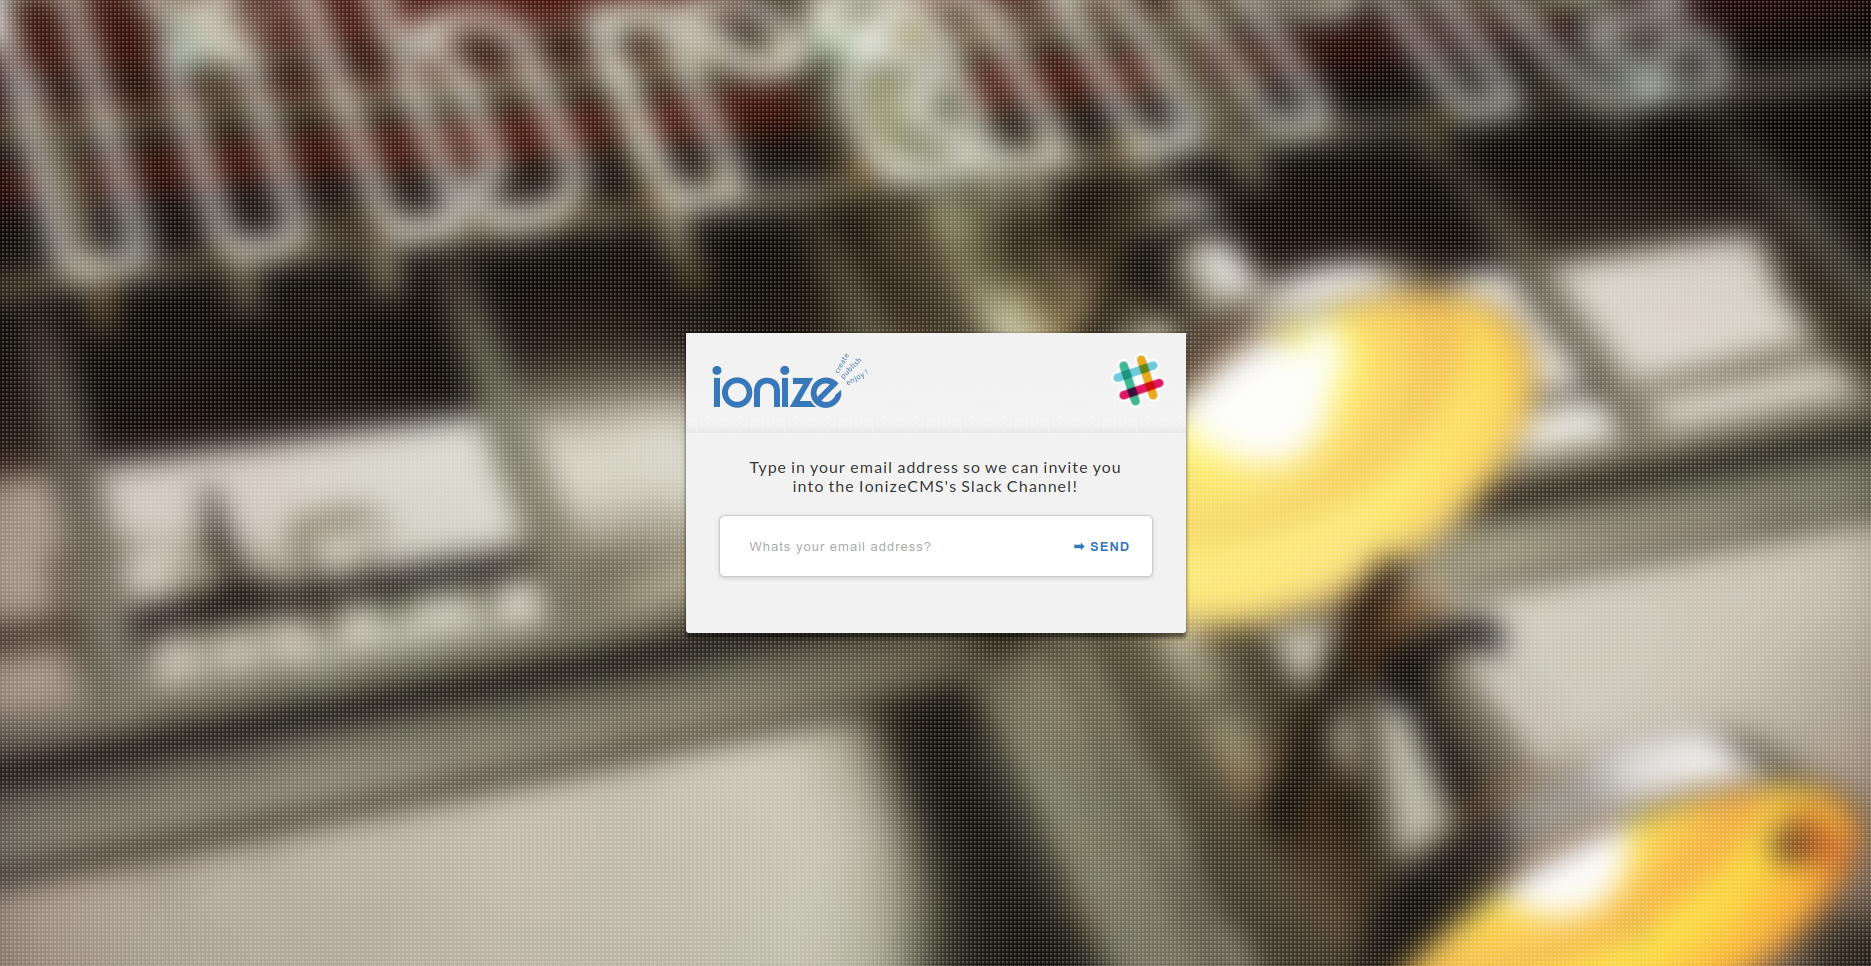
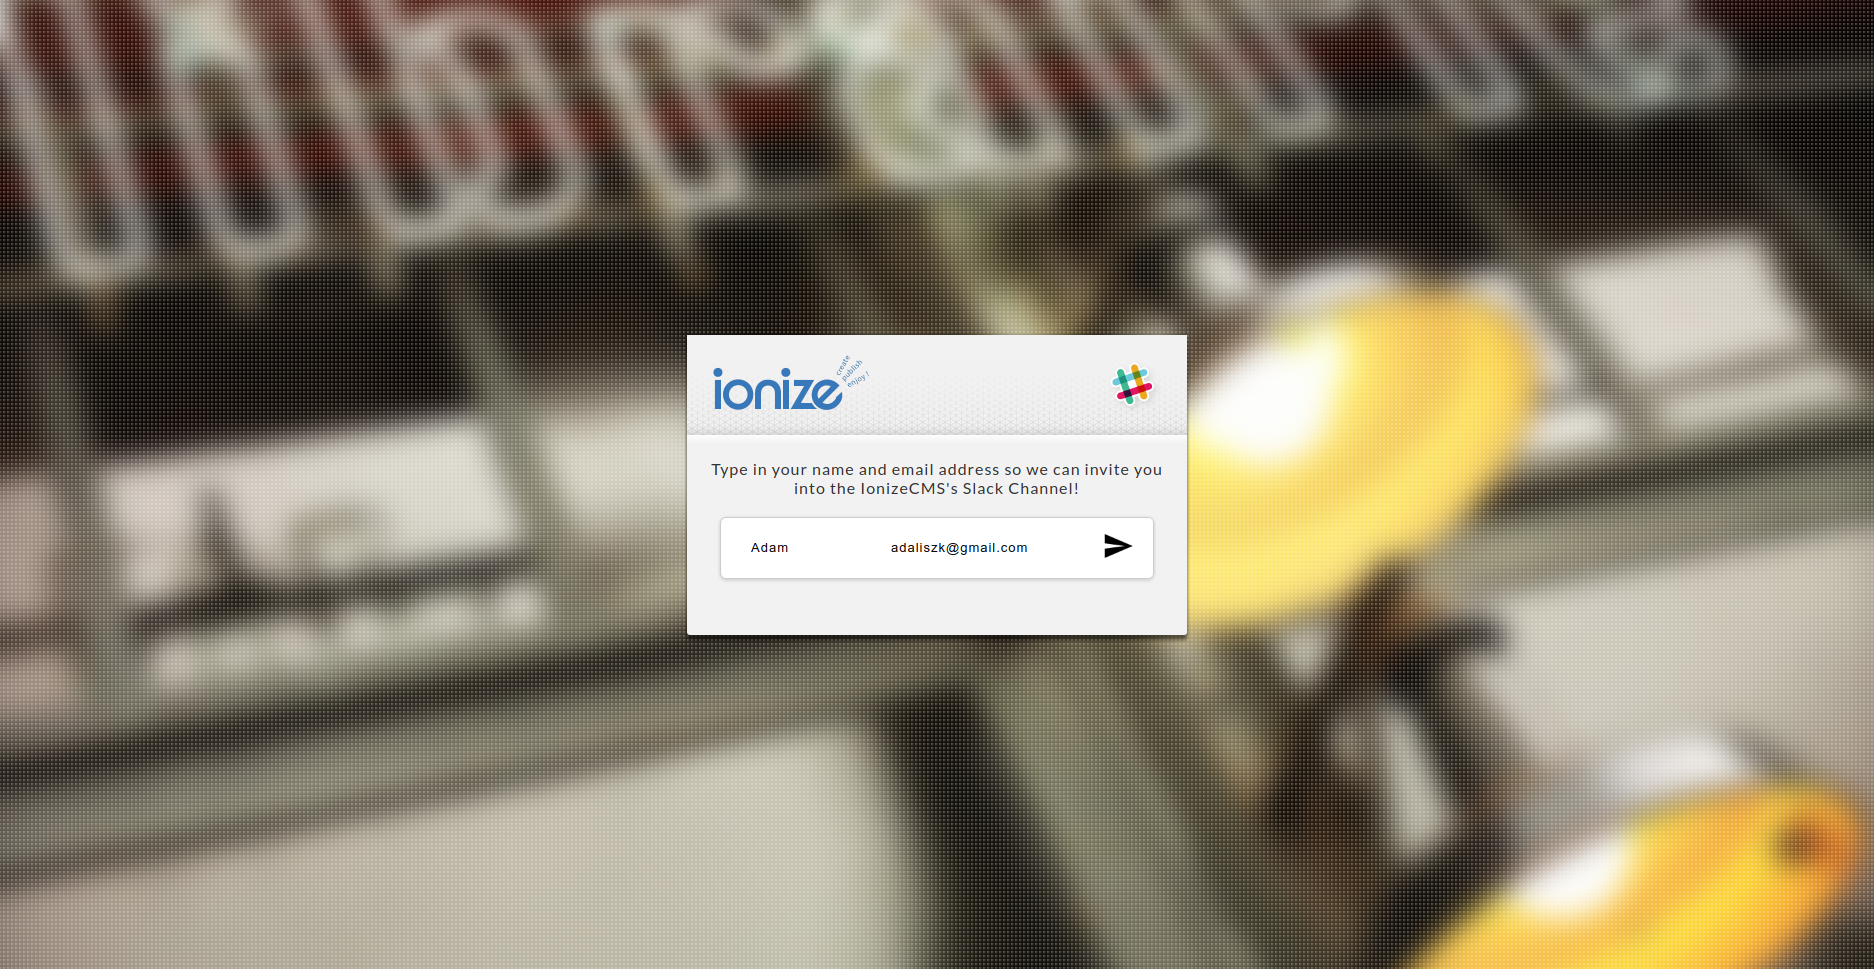
Adding Name field, Processing, Success, Error message to the Form.

diff --git a/website/index.html b/website/index.html
@@ -1,8 +1,27 @@
+<!--
+ ~ The MIT License (MIT)
+ ~
+ ~ Copyright (C) 2017 Ádám Liszkai <adaliszk@gmail.com>
+ ~
+ ~ Permission is hereby granted, free of charge, to any person obtaining a copy of this software and associated
+ ~ documentation files (the "Software"), to deal in the Software without restriction, including without limitation
+ ~ the rights to use, copy, modify, merge, publish, distribute, sublicense, and/or sell copies of the Software,
+ ~ and to permit persons to whom the Software is furnished to do so, subject to the following conditions:
+ ~
+ ~ The above copyright notice and this permission notice shall be included in all copies
+ ~ or substantial portions of the Software.
+*
+ ~ THE SOFTWARE IS PROVIDED "AS IS", WITHOUT WARRANTY OF ANY KIND, EXPRESS OR IMPLIED, INCLUDING BUT NOT LIMITED
+ ~ TO THE WARRANTIES OF MERCHANTABILITY, FITNESS FOR A PARTICULAR PURPOSE AND NONINFRINGEMENT. IN NO EVENT SHALL
+ ~ THE AUTHORS OR COPYRIGHT HOLDERS BE LIABLE FOR ANY CLAIM, DAMAGES OR OTHER LIABILITY, WHETHER IN AN ACTION OF
+ ~ CONTRACT, TORT OR OTHERWISE, ARISING FROM, OUT OF OR IN CONNECTION WITH THE SOFTWARE OR THE USE OR OTHER
+ ~ DEALINGS IN THE SOFTWARE.
+ -->
 <!doctype html>
 <html amp lang="en">
 <head>
 	<meta charset="UTF-8">
-	<title> IonizeCMS Slack Channel </title>
+	<title> IonizeCMS Slack Channel Invite </title>
 
 	<link rel="shortcut icon" type="image/png" href="assets/favicon.png"/>
 
@@ -36,14 +55,26 @@
 
 	<main id="invite-dialog">
 		<amp-img id="ionize-logo" src="assets/logo_blue.png" alt="Ionize CMS" height="55" width="182"></amp-img>
-		<amp-img id="slack-logo" src="assets/slack.png" alt="Slack" height="55" width="55"></amp-img>
+		<amp-img id="slack-logo" src="assets/logo_slack@64.png" alt="Slack" height="64" width="64"></amp-img>
 
 		<form id="invite" method="post" action-xhr="api/send_invite" target="_blank">
-			<p>Type in your email address so we can invite you<br/>into the IonizeCMS's Slack Channel!</p>
-			<div>
-				<input type="email" required placeholder="Whats your email address?" />
-				<button>➡ Send</button>
+			<p>Type in your name and email address so we can invite you into the IonizeCMS's Slack Channel!</p>
+			<div id="form">
+				<input type="text" required placeholder="Name" />
+				<input type="email" required placeholder="Email Address" />
+				<button>
+                    <amp-img id="ic_send" src="assets/ic_send.png" alt="Send" height="32" width="32"></amp-img>
+                </button>
 			</div>
+            <div id="form_processing">
+                Stay calm, Capybara need some time to process your Request!
+            </div>
+            <div id="form_success_message" submit-success>
+                <p>Check your inbox for your Invitation!</p>
+            </div>
+            <div id="form_error_message" submit-error>
+                <p>Something went wrong, plase contact me on <a href="mailto:adaliszk@gmail.com">adaliszk@gmail.com</a></p>
+            </div>
 		</form>
 	</main>
 

diff --git a/website/assets/template.css b/website/assets/template.css
@@ -1,19 +1,16 @@
 body, html {
     min-height: 100%;
 }
-
 body, td, th {
     font-family: 'Lato', 'Helvetica Neue', Arial, sans-serif;
 }
-
 body {
     background: #f2f2f2 url('background-02.png') no-repeat center center;
     background-size: cover;
 }
-
 body:before {
     content: ""; position: fixed; top: 0; right: 0; bottom: 0; left: 0;
-    background: url('overlay-white@2x.png') repeat center center;
+    background: url('overlay_white@2x.png') repeat center center;
     pointer-events: none;
 }
 
@@ -26,8 +23,7 @@ body:before {
     box-shadow: 0 0 5px rgba(0,0,0,0.22), 0 5px 5px rgba(0,0,0,0.5);
     border-radius: 0 0 3px 3px;
 }
-
-@media screen and (max-width: 500px) {
+@media screen and (max-width: 540px) {
     #invite-dialog {
         width: 90%; height: auto;
     }
@@ -40,6 +36,11 @@ body:before {
 #slack-logo {
     height: 55px; float: right; margin: 20px;
 }
+@media screen and (max-width: 320px) {
+    #slack-logo {
+        display: none;
+    }
+}
 
 #invite {
     padding: 10px;
@@ -47,6 +48,7 @@ body:before {
 
 #invite p {
     text-align: center; letter-spacing: 1px;
+    padding: 0 10px;
 }
 
 #invite div {
@@ -60,24 +62,59 @@ body:before {
     border: 1px solid #ccc; background: #fff;
     box-shadow: 0 0 5px rgba(0,0,0,0.07), 0 2px 5px rgba(0,0,0,0.1);
 }
-
+@media screen and (max-width: 540px) {
+    #invite div {
+        flex-direction: column; height: auto;
+    }
+}
 #invite div input, #invite div button {
     height: 60px; border: none; background: none; display: inline-block;
     letter-spacing: 1px;
 }
-
 #invite div input {
     padding: 0 30px; width: 100%;
 }
-
+@media screen and (min-width: 540px) {
+    #invite div input[type="text"] {
+        width: 80px;
+    }
+}
+@media screen and (max-width: 540px) {
+    #invite div input {
+        border-bottom: 1px solid #ccc;
+        width: 90%;
+    }
+}
 #invite div button {
-    width: 150px; text-transform: uppercase; background-color: #fff; color: #3778bb;
+    width: 170px; text-transform: uppercase; background-color: #fff; color: #3778bb;
     font-weight: 900; text-shadow: 0 0 10px #fff;
 }
-
-/*
-#invite-dialog #invite div ~ input:focus {
-    background-color: #3778bb; color: #eee;
-    text-shadow: 0 0 10px #040e19;
+@media screen and (max-width: 540px) {
+    #invite div button {
+        width: 100%; text-align: right;
+        padding-right: 20px;
+    }
 }
-*/
+
+#invite #form_processing, #invite.amp-form-submitting #form,
+#invite.amp-form-submit-success #form, #invite.amp-form-submit-error #form {
+    display: none;
+}
+#invite.amp-form-submitting #form_processing {
+    display: block;
+}
+
+#invite div[submit-success], #invite div[submit-error] {
+    display: none; height: auto !important;
+}
+#invite div[submit-success] {
+    color: #151;
+}
+#invite div[submit-error] {
+    color: #A00;
+}
+
+#invite.amp-form-submit-success div[submit-success],
+#invite.amp-form-submit-error div[submit-error] {
+    display: block;
+}

diff --git a/webserver.js b/webserver.js
@@ -1,24 +1,24 @@
 #!/usr/bin/env node
 
 /*
-
- The MIT License (MIT)
- Copyright (C) 2016 Ádám Liszkai <contact@liszkaiadam.hu>
-
- Permission is hereby granted, free of charge, to any person obtaining a copy of this software and associated
- documentation files (the "Software"), to deal in the Software without restriction, including without limitation
- the rights to use, copy, modify, merge, publish, distribute, sublicense, and/or sell copies of the Software,
- and to permit persons to whom the Software is furnished to do so, subject to the following conditions:
-
- The above copyright notice and this permission notice shall be included in all copies
- or substantial portions of the Software.
-
- THE SOFTWARE IS PROVIDED "AS IS", WITHOUT WARRANTY OF ANY KIND, EXPRESS OR IMPLIED, INCLUDING BUT NOT LIMITED
- TO THE WARRANTIES OF MERCHANTABILITY, FITNESS FOR A PARTICULAR PURPOSE AND NONINFRINGEMENT. IN NO EVENT SHALL
- THE AUTHORS OR COPYRIGHT HOLDERS BE LIABLE FOR ANY CLAIM, DAMAGES OR OTHER LIABILITY, WHETHER IN AN ACTION OF
- CONTRACT, TORT OR OTHERWISE, ARISING FROM, OUT OF OR IN CONNECTION WITH THE SOFTWARE OR THE USE OR OTHER
- DEALINGS IN THE SOFTWARE.
-
+ * The MIT License (MIT)
+ *
+ * Copyright (C) 2017 Ádám Liszkai <adaliszk@gmail.com>
+ *
+ * Permission is hereby granted, free of charge, to any person obtaining a copy of this software and associated
+ * documentation files (the "Software"), to deal in the Software without restriction, including without limitation
+ * the rights to use, copy, modify, merge, publish, distribute, sublicense, and/or sell copies of the Software,
+ * and to permit persons to whom the Software is furnished to do so, subject to the following conditions:
+ *
+ * The above copyright notice and this permission notice shall be included in all copies
+ * or substantial portions of the Software.
+ *
+ * THE SOFTWARE IS PROVIDED "AS IS", WITHOUT WARRANTY OF ANY KIND, EXPRESS OR IMPLIED, INCLUDING BUT NOT LIMITED
+ * TO THE WARRANTIES OF MERCHANTABILITY, FITNESS FOR A PARTICULAR PURPOSE AND NONINFRINGEMENT. IN NO EVENT SHALL
+ * THE AUTHORS OR COPYRIGHT HOLDERS BE LIABLE FOR ANY CLAIM, DAMAGES OR OTHER LIABILITY, WHETHER IN AN ACTION OF
+ * CONTRACT, TORT OR OTHERWISE, ARISING FROM, OUT OF OR IN CONNECTION WITH THE SOFTWARE OR THE USE OR OTHER
+ * DEALINGS IN THE SOFTWARE.
+ *
  */
 
 'use strict';
@@ -89,7 +89,8 @@ app.use('/', express.static('website'));
 
 // Get logged in profile information
 app.post('/api/send_invite', (request, response) => {
-	response.send('TODO');
+    // @TODO: Call slack_invite.js with parameters
+	response.status(501).send(null);
 });
 
 // Configuring Webserver

diff --git a/website/serviceWorker.js b/website/serviceWorker.js
@@ -1,12 +1,36 @@
+'use strict';
+
+/*
+ * The MIT License (MIT)
+ *
+ * Copyright (C) 2017 Ádám Liszkai <adaliszk@gmail.com>
+ *
+ * Permission is hereby granted, free of charge, to any person obtaining a copy of this software and associated
+ * documentation files (the "Software"), to deal in the Software without restriction, including without limitation
+ * the rights to use, copy, modify, merge, publish, distribute, sublicense, and/or sell copies of the Software,
+ * and to permit persons to whom the Software is furnished to do so, subject to the following conditions:
+ *
+ * The above copyright notice and this permission notice shall be included in all copies
+ * or substantial portions of the Software.
+ *
+ * THE SOFTWARE IS PROVIDED "AS IS", WITHOUT WARRANTY OF ANY KIND, EXPRESS OR IMPLIED, INCLUDING BUT NOT LIMITED
+ * TO THE WARRANTIES OF MERCHANTABILITY, FITNESS FOR A PARTICULAR PURPOSE AND NONINFRINGEMENT. IN NO EVENT SHALL
+ * THE AUTHORS OR COPYRIGHT HOLDERS BE LIABLE FOR ANY CLAIM, DAMAGES OR OTHER LIABILITY, WHETHER IN AN ACTION OF
+ * CONTRACT, TORT OR OTHERWISE, ARISING FROM, OUT OF OR IN CONNECTION WITH THE SOFTWARE OR THE USE OR OTHER
+ * DEALINGS IN THE SOFTWARE.
+ *
+ */
 
 const VERSION = '1';
 
-self.addEventListener('install', event => {
-	event.waitUntil(self.skipWaiting())
-});
+self.oninstall = event => {
+    event.waitUntil( self.skipWaiting() );
+};
 
-self.addEventListener('activate', event => {
-	event.waitUntil(self.clients.claim());
-});
+self.onactivate = event => {
+    event.waitUntil( self.clients.claim() );
+};
 
-self.addEventListener('fetch', event => fetch(event.request));
+self.onfetch = event => {
+    event.respondWith( fetch(event.request) );
+};

diff --git a/slack_invite.js b/slack_invite.js
@@ -1,7 +1,29 @@
+#!/usr/bin/env node
+
+/*
+ * The MIT License (MIT)
+ *
+ * Copyright (C) 2017 Ádám Liszkai <adaliszk@gmail.com>
+ *
+ * Permission is hereby granted, free of charge, to any person obtaining a copy of this software and associated
+ * documentation files (the "Software"), to deal in the Software without restriction, including without limitation
+ * the rights to use, copy, modify, merge, publish, distribute, sublicense, and/or sell copies of the Software,
+ * and to permit persons to whom the Software is furnished to do so, subject to the following conditions:
+ *
+ * The above copyright notice and this permission notice shall be included in all copies
+ * or substantial portions of the Software.
+ *
+ * THE SOFTWARE IS PROVIDED "AS IS", WITHOUT WARRANTY OF ANY KIND, EXPRESS OR IMPLIED, INCLUDING BUT NOT LIMITED
+ * TO THE WARRANTIES OF MERCHANTABILITY, FITNESS FOR A PARTICULAR PURPOSE AND NONINFRINGEMENT. IN NO EVENT SHALL
+ * THE AUTHORS OR COPYRIGHT HOLDERS BE LIABLE FOR ANY CLAIM, DAMAGES OR OTHER LIABILITY, WHETHER IN AN ACTION OF
+ * CONTRACT, TORT OR OTHERWISE, ARISING FROM, OUT OF OR IN CONNECTION WITH THE SOFTWARE OR THE USE OR OTHER
+ * DEALINGS IN THE SOFTWARE.
+ *
+ */
 
 // https://ionizecms.slack.com/api/users.admin.invite?_x_id=<Token>&email=<Email>&channels=<ChannelID>
 
-const querystring = require('querystring');
+const queryString = require('querystring');
 const http = require('http');
 const fs = require('fs');
 

diff --git a/LICENSE.md b/LICENSE.md
@@ -1,0 +1,17 @@
+The MIT License (MIT)
+
+Copyright (C) 2017 Ádám Liszkai <adaliszk@gmail.com>
+
+Permission is hereby granted, free of charge, to any person obtaining a copy of this software and associated
+documentation files (the "Software"), to deal in the Software without restriction, including without limitation
+the rights to use, copy, modify, merge, publish, distribute, sublicense, and/or sell copies of the Software,
+and to permit persons to whom the Software is furnished to do so, subject to the following conditions:
+ 
+The above copyright notice and this permission notice shall be included in all copies
+or substantial portions of the Software.
+ 
+THE SOFTWARE IS PROVIDED "AS IS", WITHOUT WARRANTY OF ANY KIND, EXPRESS OR IMPLIED, INCLUDING BUT NOT LIMITED
+TO THE WARRANTIES OF MERCHANTABILITY, FITNESS FOR A PARTICULAR PURPOSE AND NONINFRINGEMENT. IN NO EVENT SHALL
+THE AUTHORS OR COPYRIGHT HOLDERS BE LIABLE FOR ANY CLAIM, DAMAGES OR OTHER LIABILITY, WHETHER IN AN ACTION OF
+CONTRACT, TORT OR OTHERWISE, ARISING FROM, OUT OF OR IN CONNECTION WITH THE SOFTWARE OR THE USE OR OTHER
+DEALINGS IN THE SOFTWARE.

diff --git a/README.md b/README.md
@@ -1,2 +1,9 @@
-# ionize-slack
-Just an invitation maker for Ionize Slack Channel
+# Ionize Slack
+Just an invitation maker for Ionize Slack Channel, it's writen in NodeJS at server side
+and with AMP on frontend.
+
+### Author
+Ádám Liszkai <adaliszk[at]gmail.com>  
+[![Linked.in Profile](https://assets.adaliszk.net/badges/github/linkedin.png)](https://linkedin.com/in/adaliszk/)
+[![Support me on Patreon](https://assets.adaliszk.net/badges/github/patreon.png)](https://patreon.com/adaliszk/)  
+@AdaLiszk
